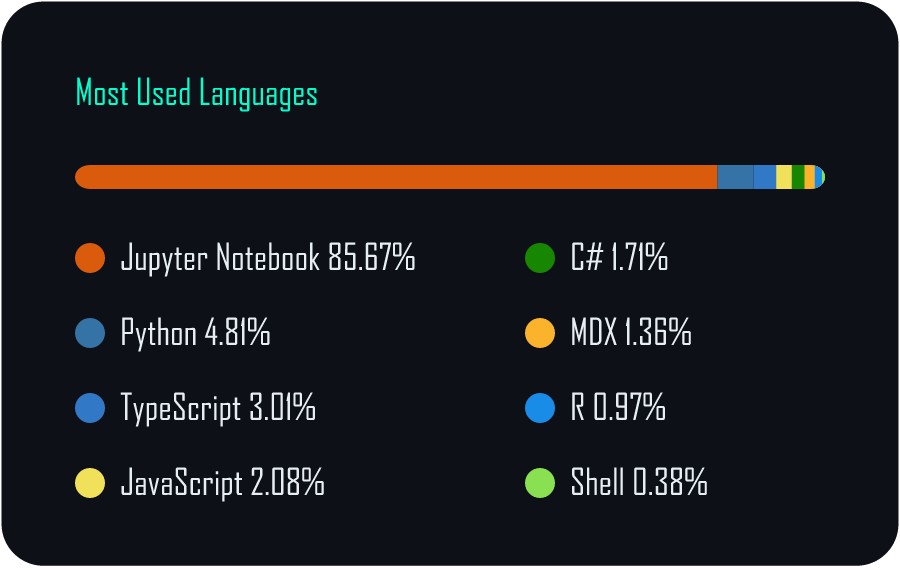
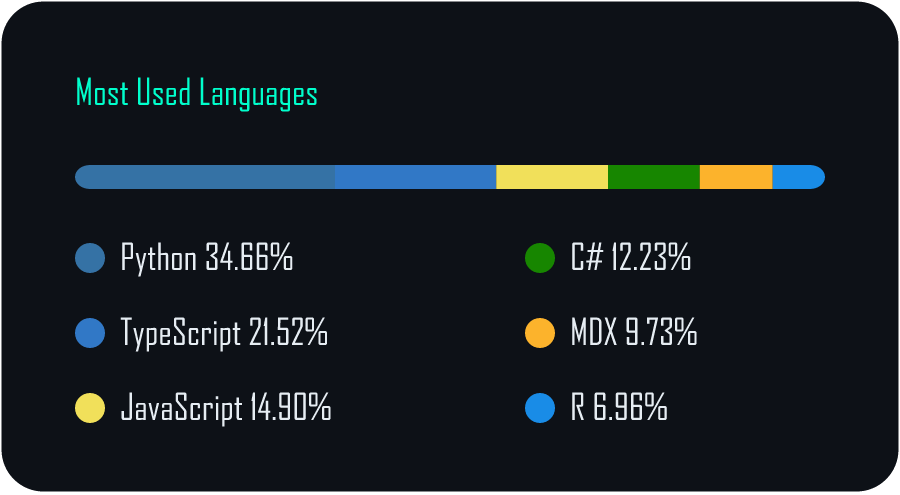
Standardize profile card dimensions and hide Jupyter
Standardize SVG-to-PNG conversion widths to 900px for consistent card display. Reduce top-langs display from 8 to 6 languages by hiding Jupyter Notebook. Update README layout with uniform image heights (160px for stats/langs, 150px for streak) and semantic HTML (div instead of p tags).

diff --git a/README.md b/README.md
@@ -25,19 +25,21 @@
 
 ## 📊 GitHub Stats
 
-<!-- PNG cards (Camo-safe). Regenerated every 6h by update-profile-cards.yml -->
-<p align="center">
-  <img height="180" alt="GitHub Stats" src="https://raw.githubusercontent.com/Abdussamed-1/Abdussamed-1/main/profile/github-stats.png" />
-  <img height="180" alt="GitHub Streak" src="https://raw.githubusercontent.com/Abdussamed-1/Abdussamed-1/main/profile/streak.png" />
-  <br/>
-  <img height="180" alt="Top Languages" src="https://raw.githubusercontent.com/Abdussamed-1/Abdussamed-1/main/profile/top-langs.png" />
-</p>
+<!-- PNG cards — Camo-safe, refreshed by update-profile-cards.yml -->
+<div align="center">
+  <img src="https://raw.githubusercontent.com/Abdussamed-1/Abdussamed-1/main/profile/github-stats.png" height="160" alt="GitHub Stats" />
+  <img src="https://raw.githubusercontent.com/Abdussamed-1/Abdussamed-1/main/profile/top-langs.png" height="160" alt="Top Languages" />
+</div>
+
+<div align="center">
+  <img src="https://raw.githubusercontent.com/Abdussamed-1/Abdussamed-1/main/profile/streak.png" height="150" alt="GitHub Streak" />
+</div>
 
 ## 📈 Activity Graph
 
-<p align="center">
-  <img alt="GitHub Activity Graph" src="https://raw.githubusercontent.com/Abdussamed-1/Abdussamed-1/main/profile/activity-graph.png" />
-</p>
+<div align="center">
+  <img src="https://raw.githubusercontent.com/Abdussamed-1/Abdussamed-1/main/profile/activity-graph.png" width="100%" alt="GitHub Activity Graph" />
+</div>
 
 ## 💻 Languages & Tools
 
